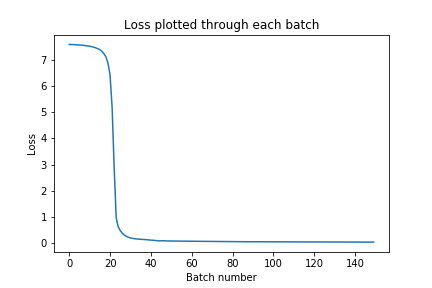
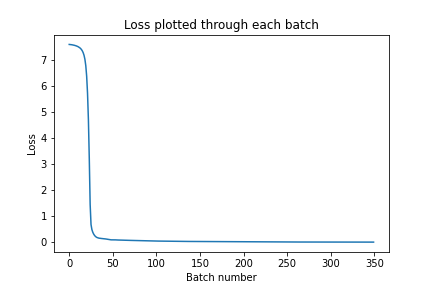
predicting on last char only

diff --git a/data_generator.py b/data_generator.py
@@ -26,6 +26,7 @@ class Dataset(data.Dataset):
 
     def __init__(self, filename, max_seq_len, acids="ACDEFGHIKLMNPQRSTVWY-"):
         elem_list = []
+        self.acids = acids
         self.acid_dict = self.__gen_acid_dict__(acids)
         self.max_seq_len = max_seq_len
 
@@ -41,82 +42,19 @@ class Dataset(data.Dataset):
     def __prepare_seq__(self, seq):
         seq = str(seq).ljust(self.max_seq_len+1, '-')
         temp_seq = [self.acid_dict[x] for x in seq]
-        tensor_seq = torch.stack(temp_seq).float()
-        labels_seq = torch.stack([torch.argmax(x) for x in temp_seq[1:]]).long()
+        tensor_seq = torch.stack(temp_seq[:-1]).float()
+
+        # Labels consisting of the raw tensor
+        # labels_seq = torch.stack(temp_seq[1:]).long()
+
+        # Label consisting of last element
+        labels_seq = temp_seq[-1].long()
+
+        # Labels consisting of the index of correct class
+        # labels_seq = torch.argmax(torch.stack(temp_seq[1:]), dim=1).long()
+
         #print("Seq shape:", tensor_seq[1:].size())
-        return tensor_seq[:-1], tensor_seq[-1].long()#, labels_seq
+        return tensor_seq, labels_seq
 
     def __getitem__(self, index):
         return self.__prepare_seq__(self.data[index])
-
-
-# Deprecated
-class data_generator():
-    def __init__(self, filename, max_seq_len, acids="ACDEFGHIKLMNPQRSTUVWY-"):
-        self.__acids__ = acids
-        self.__parser__ = SeqIO.parse(filename, "fasta")
-
-        self.acid_dict = {}
-        self.max_seq_len = max_seq_len
-        self.data = torch.Tensor(1, self.max_seq_len, len(self.acid_dict))
-        self.targets = torch.Tensor(1, self.max_seq_len, len(self.acid_dict))
-        self.gen_acid_dict(acids)
-
-    # If a sequence contains one of XBZJ it will be discarded,
-    # and if it is longer than the given max_seq_length
-    def __is_legal_seq__(self, seq):
-        len_val = not (len(seq) > self.max_seq_len)
-        cont_val = not(('X' in seq) or ('B' in seq) or ('Z' in seq) or ('J' in seq))
-        return len_val and cont_val
-
-    # Generate a dictionary if none is supplied,
-    def gen_acid_dict(self, acids):
-        for i, elem in enumerate(acids):
-            temp = np.zeros(len(acids))
-            temp[i] = 1
-            self.acid_dict[elem] = temp
-        return self.acid_dict
-
-    # Read num_elems sequences from the given file
-    def gen_data(self, num_elems):
-        ret_val = []
-        targets = []
-        i = 0
-        for record in self.__parser__:
-            if (i == num_elems):
-                break
-            elif (not self.__is_legal_seq__(record.seq)):
-                continue
-            else:
-                pad_vals = np.full((self.max_seq_len - len(record), len(self.acid_dict)), self.acid_dict['-'])
-                seq_vals = np.array([self.acid_dict[elem] for elem in record])
-                temp_target_vals = [self.acid_dict[elem] for elem in record]
-                temp_target_vals.append(self.acid_dict['-'])
-                target_vals = np.array(temp_target_vals[1:])
-
-                ret_val.append(torch.tensor(np.concatenate((seq_vals, pad_vals), axis=0), dtype=torch.float))
-                targets.append(torch.tensor(np.concatenate((target_vals, pad_vals), axis=0), dtype=torch.float))
-                i += 1
-
-        self.data = torch.stack(ret_val)
-        self.targets = torch.stack(targets)
-        #self.data = torch.Tensor(num_elems, self.max_seq_len, len(self.acid_dict))
-        #torch.cat(ret_val, out=self.data)
-
-'''
-large_file = "uniref50.fasta"
-
-data_gen = data_generator(large_file, 2000)
-data_gen.gen_data(1000)
-#print(data_gen.acid_dict['A'])
-print(data_gen.data.size())
-#print(data_gen.data[0])
-
-test = torch.tensor([[[1,2,3],[4,5,6]],[[7,8,9],[10,11,12]],[[13,14,15],[16,17,18]]])
-print(test)
-print(test.size())
-print(test.view(2,3,3))
-print(test.view(2,3,3).size())
-
-#print(data_gen.data[0].shape)
-'''

diff --git a/lstm.py b/lstm.py
@@ -1,3 +1,4 @@
+import torch
 import torch.nn as nn
 
 class LSTM_model(nn.Module):
@@ -18,4 +19,5 @@ class LSTM_model(nn.Module):
         #print("Tag Space:", tag_space.size())
         #tag_scores = F.log_softmax(tag_space, dim=1)
         #print(type(tag_scores))
+        #output = torch.argmax(tag_space, dim=2).float()
         return tag_space, (hn, cn)
